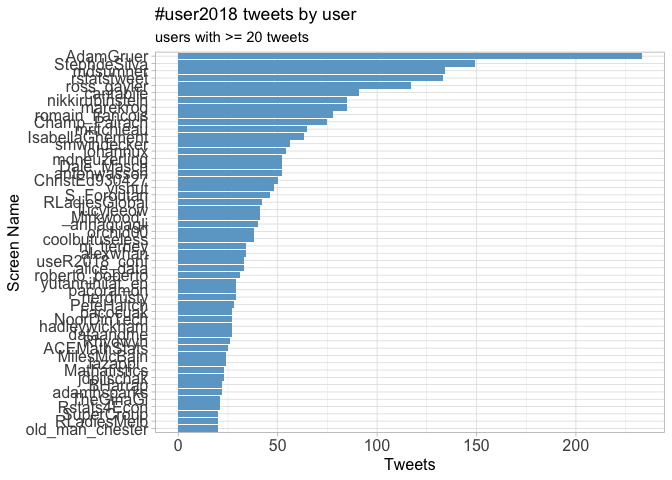
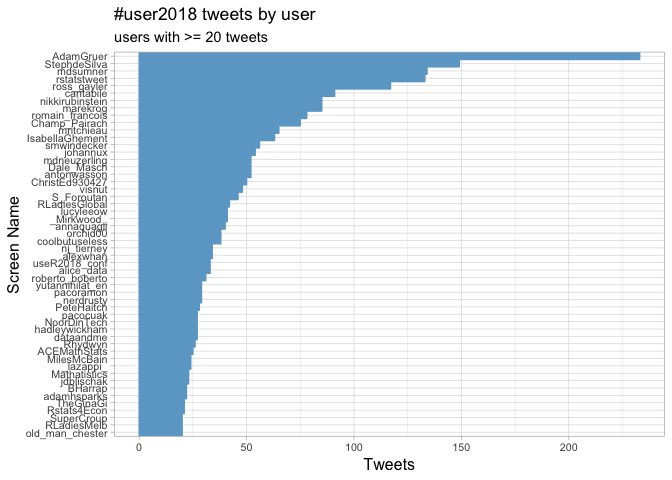
Smaller axis text to fit all users

Changed region(s): [[0.0, 0.0, 1.0, 1.0]]

diff --git a/user2018/code/R/user2018.md b/user2018/code/R/user2018.md
@@ -1,7 +1,7 @@
 Twitter Coverage of the useR Conference 2018
 ================
 Neil Saunders
-2018-07-16 21:11:31
+2018-07-16 21:29:09
 
 Introduction
 ============
